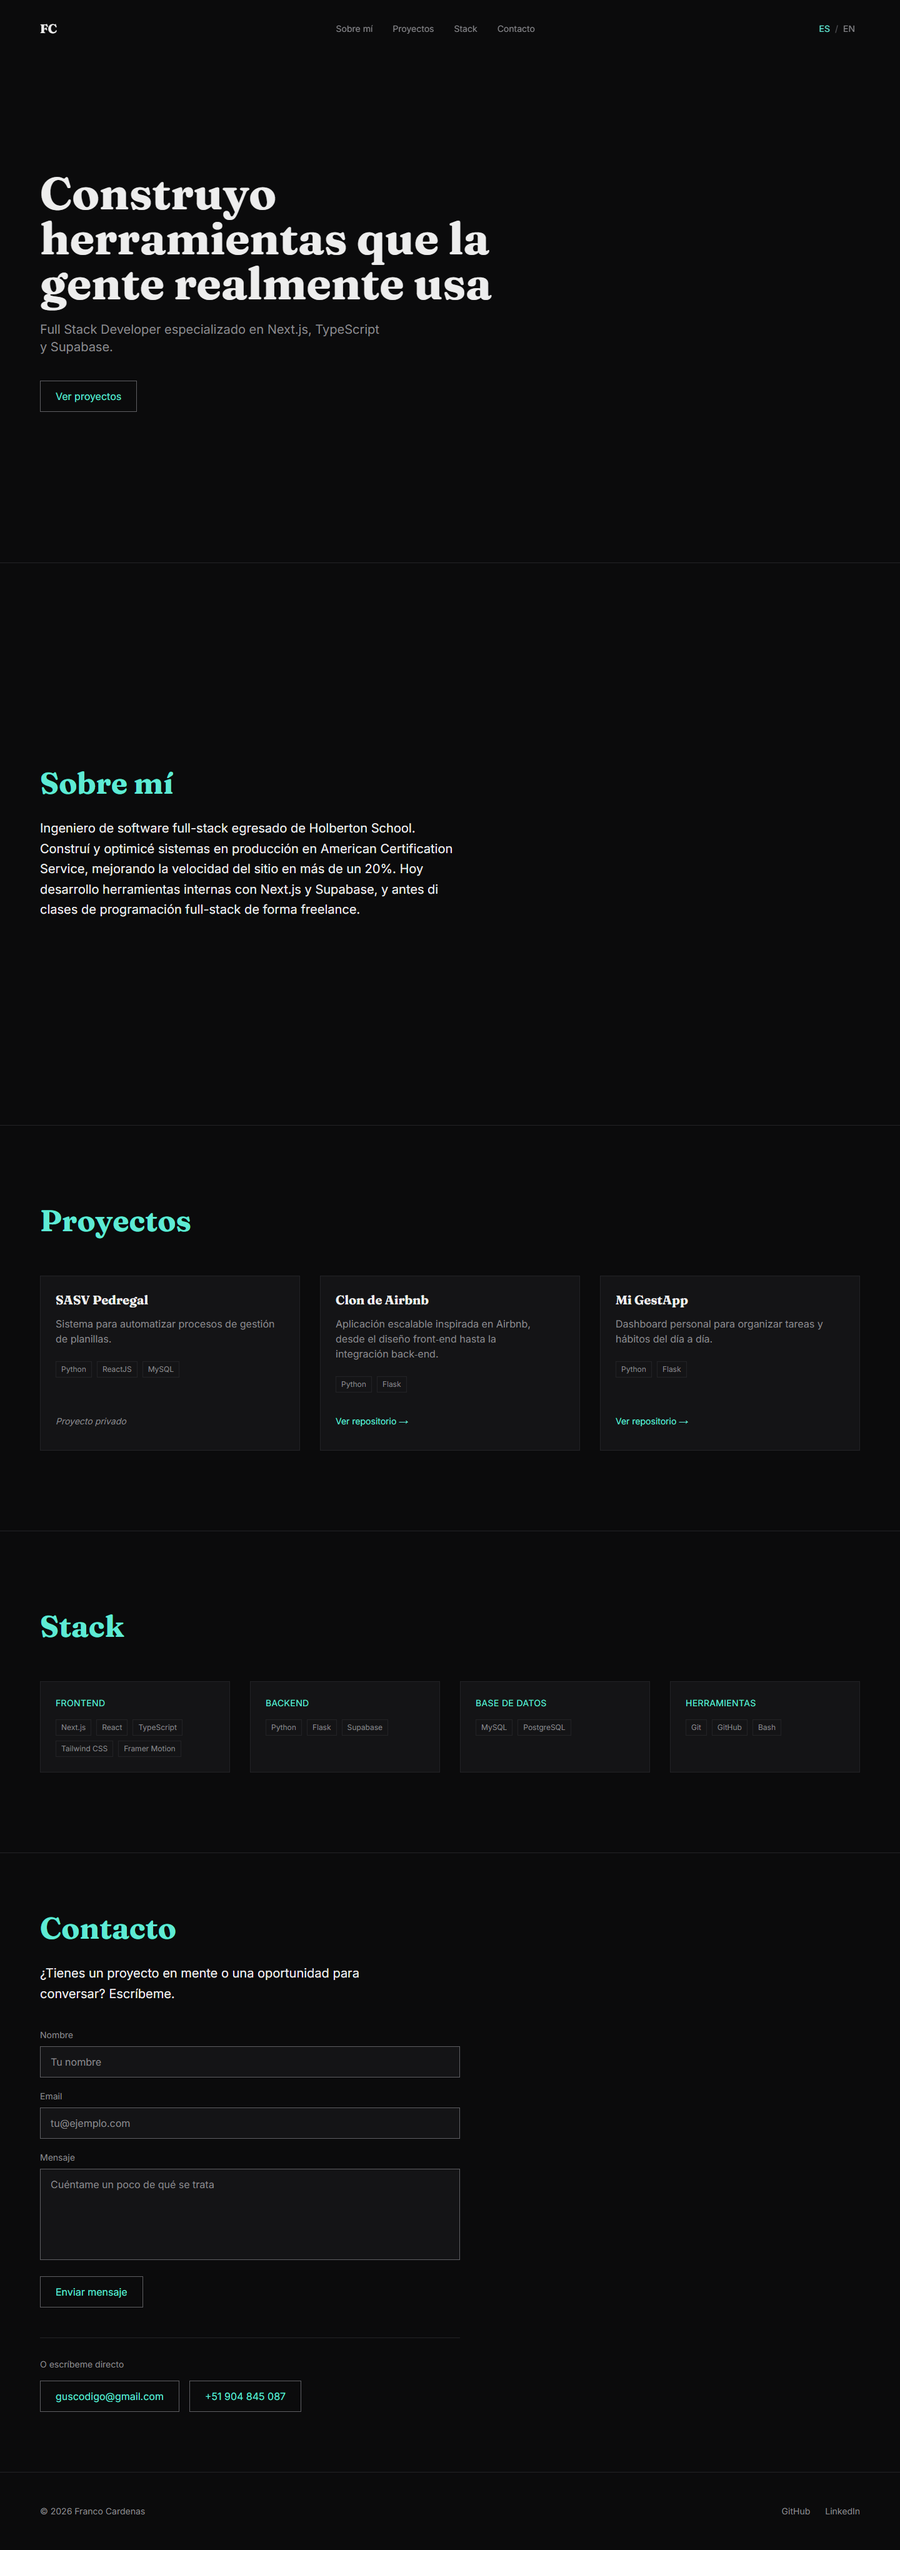
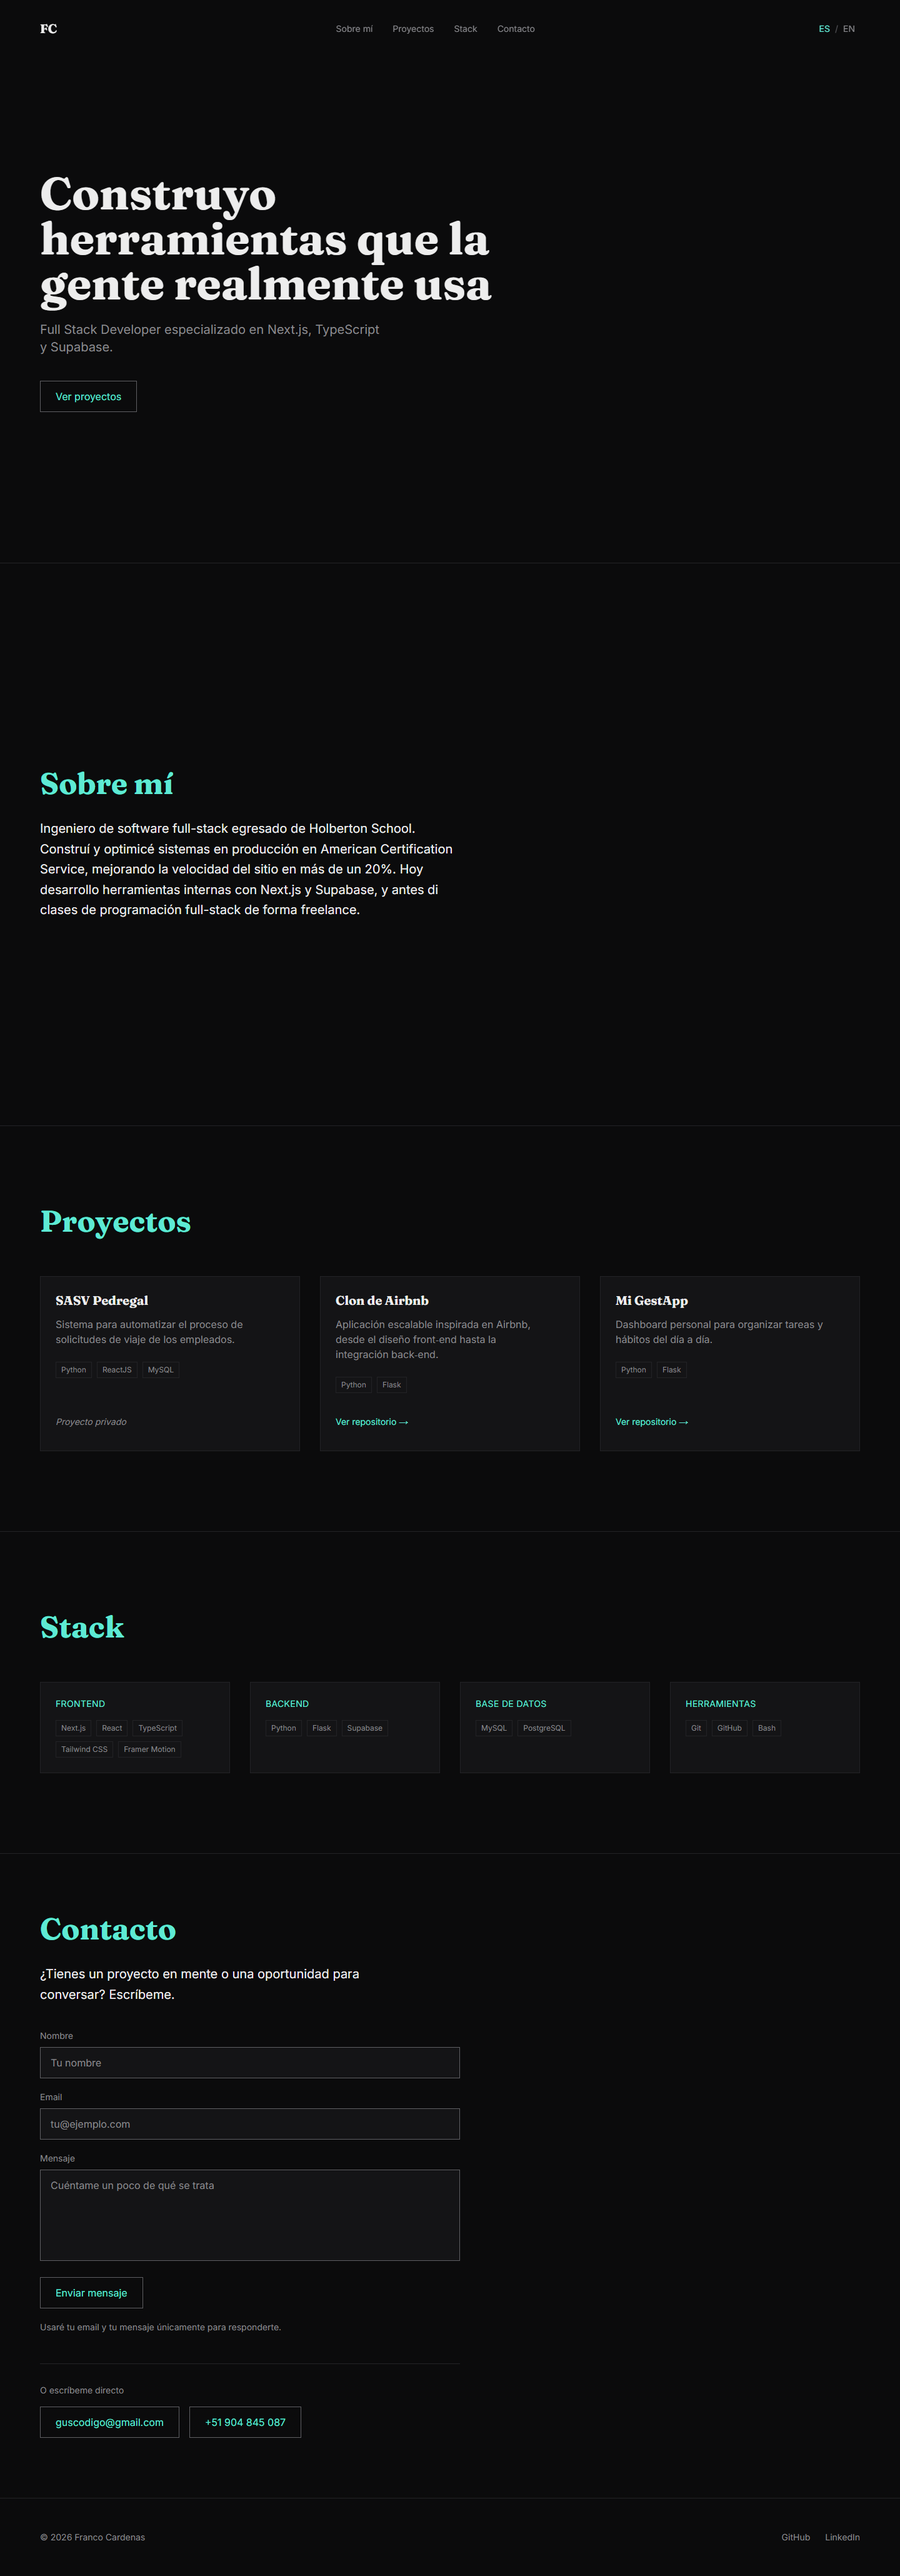
feat: add privacy note to contact form and fix SASV description
- Add a short privacy line under the contact form (ES/EN), linked to the submit button
- Correct the SASV Pedregal description to the travel request process
- Refresh README screenshots

diff --git a/src/components/sections/Contact.tsx b/src/components/sections/Contact.tsx
@@ -197,6 +197,7 @@ export function Contact() {
               type="submit"
               disabled={isSending}
               aria-busy={isSending}
+              aria-describedby="contact-privacy"
               className="btn-outline"
             >
               {isSending ? t('form.sending') : t('form.submit')}
@@ -211,6 +212,10 @@ export function Contact() {
               )}
             </div>
           </div>
+
+          <p id="contact-privacy" className="text-sm text-muted">
+            {t('form.privacy')}
+          </p>
         </form>
 
         <div className="mt-12 pt-8 border-t border-border">
